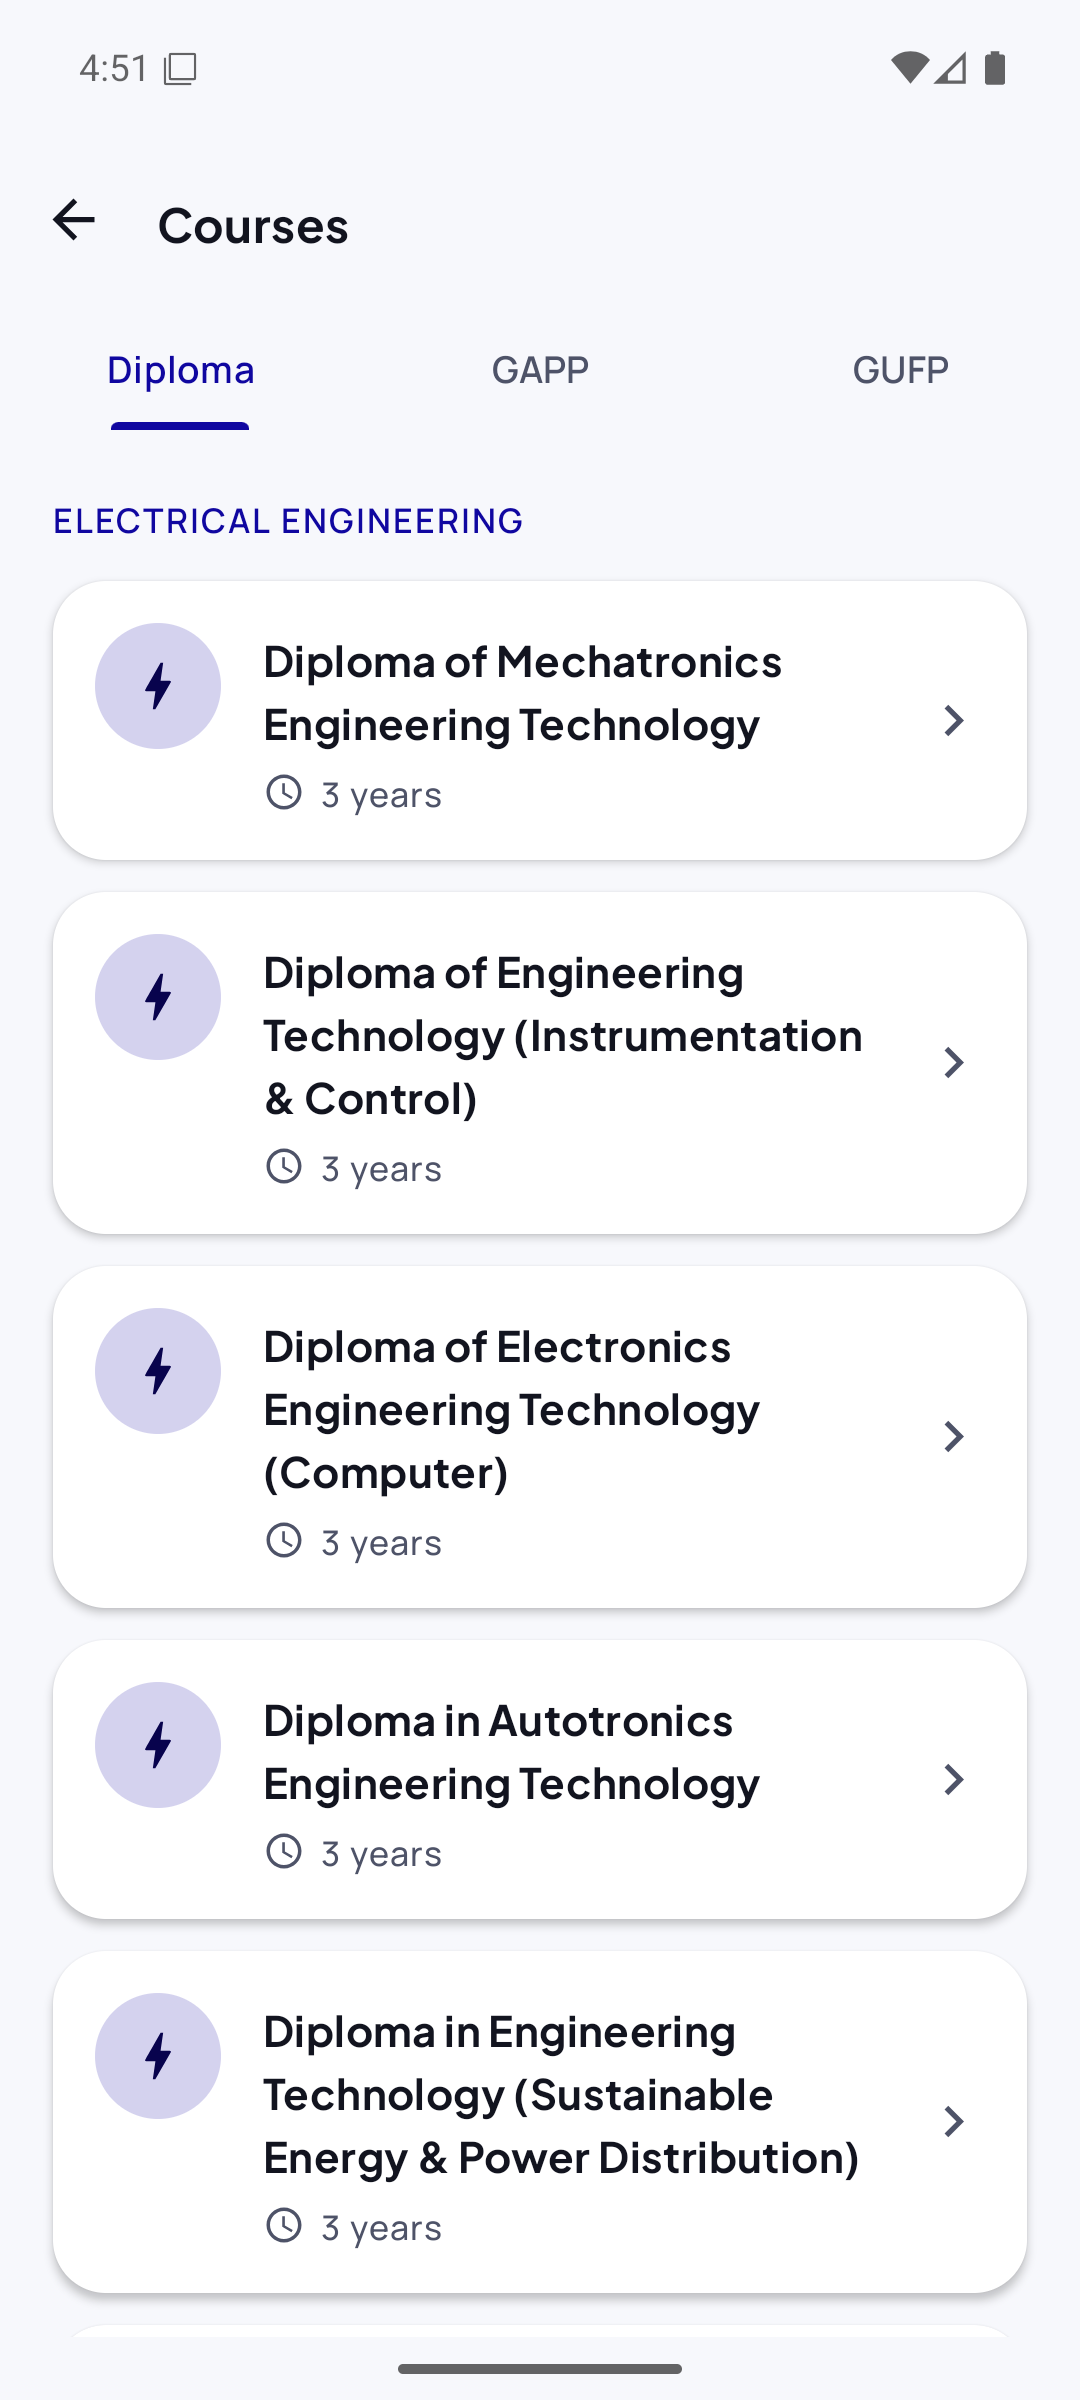
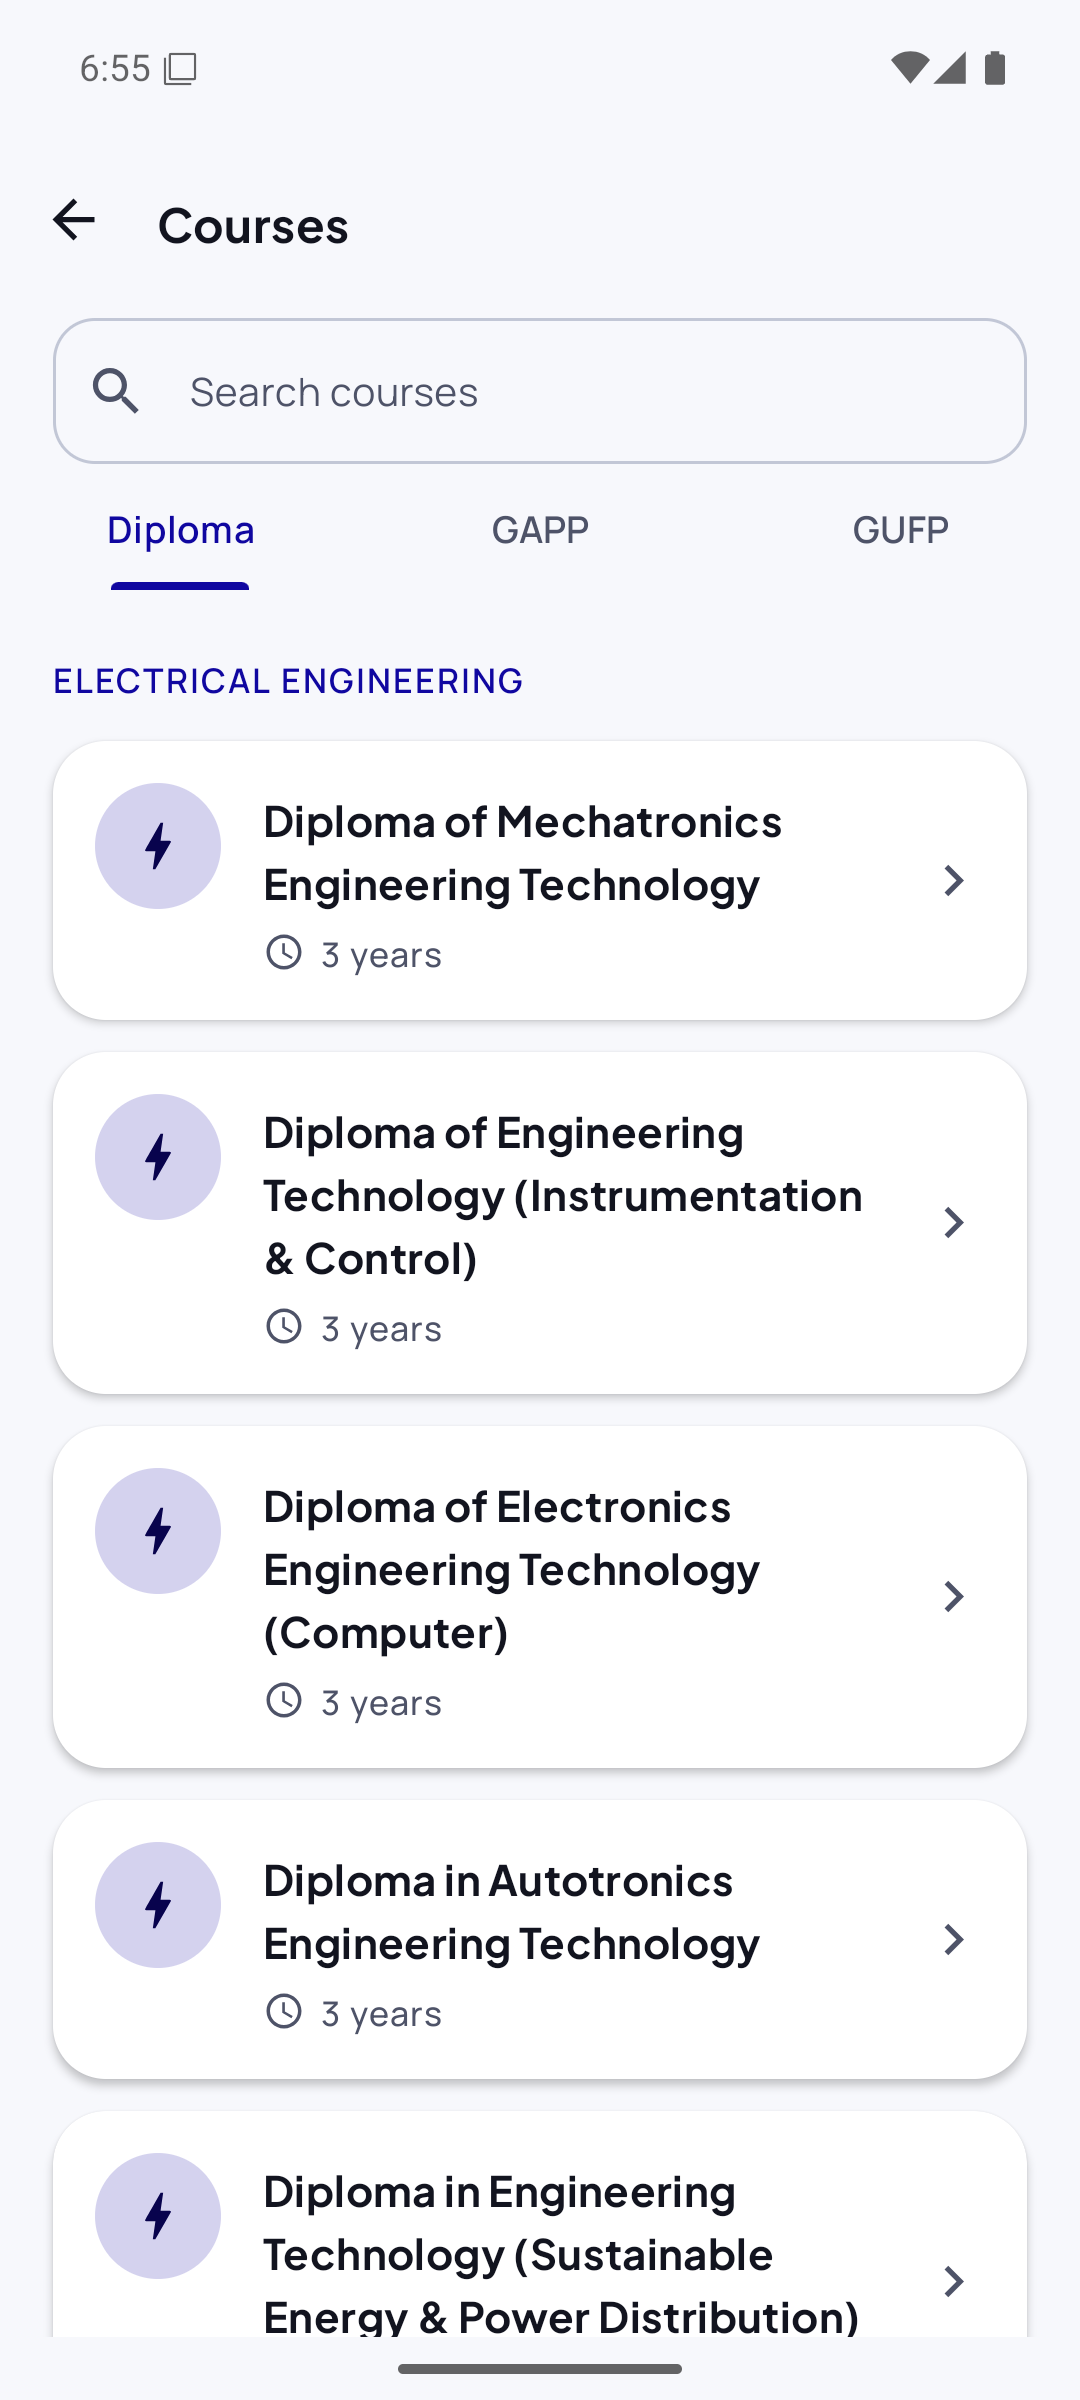
docs: refresh README screenshots for the new features
Retake Home (>_ button, red dot), Courses (search box) and both Result
screens (share icon), and add a row showing course search, the share
sheet and the landscape quiz.

diff --git a/README.md b/README.md
@@ -27,6 +27,12 @@ rotated, backgrounded or switched between themes and languages.
 |:---:|:---:|:---:|:---:|
 | <img src="docs/screenshots/home_dark_bm.png" width="200" alt="Home in dark mode, Malay"> | <img src="docs/screenshots/result_not_eligible_dark_bm.png" width="200" alt="Not eligible result, Malay"> | <img src="docs/screenshots/about_dark_bm.png" width="200" alt="About Us, Malay"> | <img src="docs/screenshots/contact_dark_bm.png" width="200" alt="Contact Us, Malay"> |
 
+**Search, share and landscape quiz**
+
+| Course search | Share results | Quiz in landscape |
+|:---:|:---:|:---:|
+| <img src="docs/screenshots/feature_search.png" width="200" alt="Course list filtered by the word design"> | <img src="docs/screenshots/feature_share.png" width="200" alt="Share sheet with the top 5 courses"> | <img src="docs/screenshots/feature_quiz_landscape.png" width="400" alt="Quiz in landscape with a 2x2 answer grid"> |
+
 ## Features
 
 - **Courses**: 17 programmes (15 diplomas, GAPP, GUFP) in tabs, with diplomas grouped by faculty, and a search box
